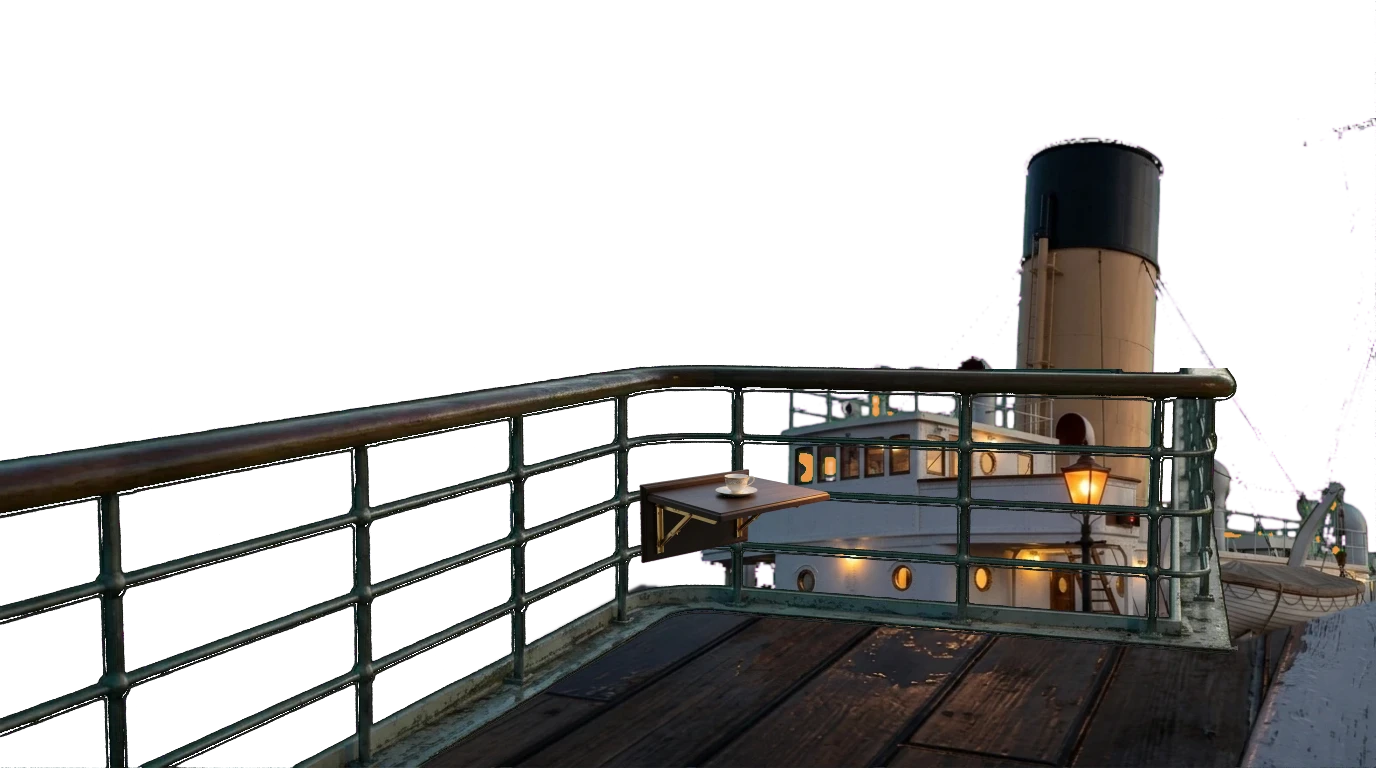
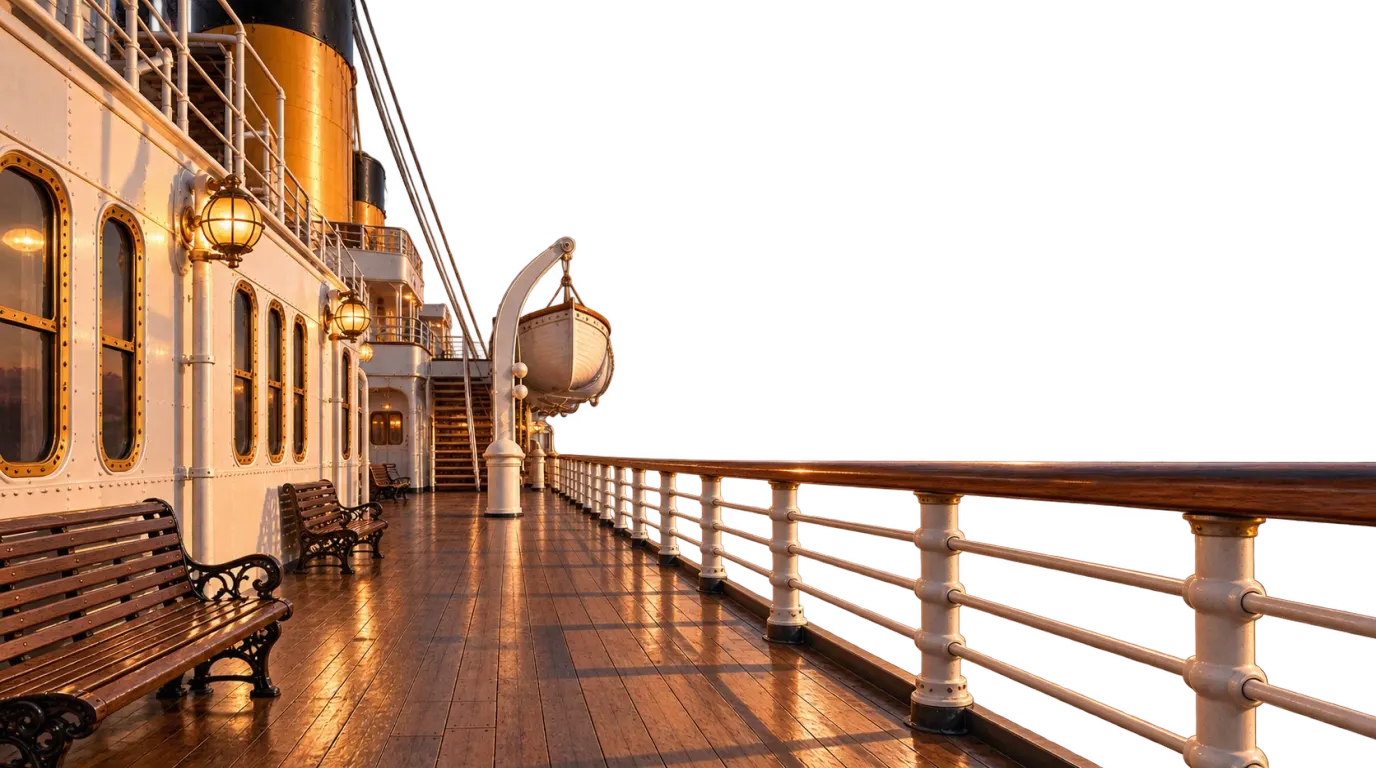
Q5: 노을 갑판 그림으로 교체, 노을에서 밤으로 이어지는 하늘과 바다 연출

diff --git a/frontend/src/components/question/DeckView.tsx b/frontend/src/components/question/DeckView.tsx
@@ -24,23 +24,23 @@ import { playCorkPop, playFireworkBurst, playStarChime, playWhaleCall, playSplas
  */
 
 const IMG = { w: 1376, h: 768 }; // 그림 좌표계 (deck_q5.webp)
-const HY = 301.7; // 수평선 (새 그림의 수평선 y=421 을 1376 폭 기준으로 옮긴 값)
-const WATER_Y = 338; // 고래가 솟는 수면
+const HY = 463.6; // 수평선: 노을 갑판 그림(1672x941)에서 갑판선과 난간이 모이는 점 y≈568 을 1376x768 기준으로 옮긴 값
+const WATER_Y = 503; // 고래가 솟는 수면
 
 interface Spot { x: number; y: number; w: number; h: number; ax: number; ay: number }
 const SPOTS: Record<string, Spot> = {
-  experience: { x: 632, y: 452, w: 212, h: 125, ax: 790, ay: 505 }, // 난간 안쪽 작은 탁자 (샴페인)
-  stability: { x: 120, y: 470, w: 330, h: 298, ax: 250, ay: 600 }, // 데크체어 자리 (그림이 오면 의자 위 별자리 도감)
-  change: { x: 835, y: 462, w: 215, h: 275, ax: 945, ay: 560 }, // 갑판 앞쪽 (망원경)
+  experience: { x: 130, y: 530, w: 150, h: 120, ax: 205, ay: 595 }, // 앞쪽 벤치 왼쪽 (샴페인)
+  stability: { x: 262, y: 486, w: 120, h: 90, ax: 322, ay: 540 }, // 앞쪽 벤치 오른쪽 (별자리 도감)
+  change: { x: 688, y: 452, w: 215, h: 255, ax: 797, ay: 585 }, // 난간 앞 갑판 (망원경)
 };
 /**
  * 선택지 물건은 배경과 따로 그린 그림(투명 배경)이다. 그림이 아직 없으면 보이지 않고 빛과 눌리는 자리만 남는다.
  * foot: 물건이 바닥에 닿는 점(1376x768 기준), h: 높이.
  */
 const OBJECTS: Record<string, { src: string; foot: [number, number]; h: number }> = {
-  experience: { src: '/q5/obj_champagne.webp', foot: [802, 513], h: 96 },
-  stability: { src: '/q5/obj_atlas.webp', foot: [250, 640], h: 66 },
-  change: { src: '/q5/obj_telescope.webp', foot: [945, 724], h: 255 },
+  experience: { src: '/q5/obj_champagne.webp', foot: [205, 612], h: 80 },
+  stability: { src: '/q5/obj_atlas.webp', foot: [322, 556], h: 34 },
+  change: { src: '/q5/obj_telescope.webp', foot: [797, 692], h: 225 },
 };
 const ORDER = ['experience', 'stability', 'change'] as const;
 type Choice = (typeof ORDER)[number];
@@ -57,11 +57,11 @@ const FADE_AT: Record<Choice, number> = { experience: 5.7, stability: 6.1, chang
 
 // 별자리: 북두칠성과 북극성, 카시오페이아 (그림 좌표)
 const BIG_DIPPER = [
-  { x: 520, y: 98 }, { x: 585, y: 120 }, { x: 650, y: 116 }, { x: 712, y: 142 },
-  { x: 722, y: 208 }, { x: 802, y: 222 }, { x: 815, y: 158 },
+  { x: 640, y: 150 }, { x: 705, y: 172 }, { x: 770, y: 168 }, { x: 832, y: 194 },
+  { x: 842, y: 262 }, { x: 922, y: 276 }, { x: 935, y: 212 },
 ];
-const POLARIS = { x: 856, y: 30 };
-const CASSIOPEIA = [{ x: 250, y: 128 }, { x: 305, y: 74 }, { x: 362, y: 108 }, { x: 410, y: 58 }, { x: 470, y: 92 }];
+const POLARIS = { x: 985, y: 84 };
+const CASSIOPEIA = [{ x: 1060, y: 190 }, { x: 1115, y: 136 }, { x: 1172, y: 170 }, { x: 1220, y: 120 }, { x: 1280, y: 154 }];
 // 별 번호(0~6 북두칠성, 7 북극성, 8~12 카시오페이아) 순서대로 이어 그린다
 const STARS = [...BIG_DIPPER, POLARIS, ...CASSIOPEIA];
 const SEGMENTS: [number, number][] = [[0, 1], [1, 2], [2, 3], [3, 4], [4, 5], [5, 6], [6, 3], [5, 6], [6, 7], [8, 9], [9, 10], [10, 11], [11, 12]];
@@ -73,7 +73,7 @@ const FRAG = `#version 300 es
 precision highp float;
 uniform vec2 uRes; uniform float uTime; uniform vec2 uOff; uniform float uScale;
 uniform float uZoom; uniform vec2 uCenter;
-uniform float uCalm; uniform float uStar; uniform float uMilky; uniform float uDawn; uniform float uGlow; uniform vec3 uGlowCol;
+uniform float uNight; uniform float uCalm; uniform float uStar; uniform float uMilky; uniform float uDawn; uniform float uGlow; uniform vec3 uGlowCol;
 uniform vec4 uRip[4];
 uniform sampler2D uSky; uniform float uHasSky;
 out vec4 o;
@@ -90,10 +90,17 @@ vec3 sky(vec2 p){
     // 하늘 사진: 구름과 수평선의 노을이 그대로 깔린다 (위에 별과 은하수가 얹힌다)
     c = texture(uSky, vec2(clamp(p.x / 1376., 0., 1.), clamp(p.y / HY, 0., .995))).rgb;
   } else {
-    vec3 hor = vec3(.25, .29, .38), top = vec3(.27, .38, .52);
-    c = mix(hor, top, pow(h, .7));
-    // 해 진 뒤 수평선에 남은 따뜻한 빛: 배가 있는 오른쪽이 더 붉다
-    c = mix(c, vec3(.95, .58, .44), exp(-h * 11.) * (.2 + .6 * smoothstep(250., 900., p.x)));
+    // 노을 하늘: 위는 짙은 푸른색, 수평선으로 갈수록 따뜻한 주황. 해는 오른쪽 수평선 위에 낮게 걸려 있다.
+    vec3 gTop = vec3(.17, .28, .50), gMid = vec3(.52, .54, .64), gHor = vec3(.98, .66, .36);
+    vec3 gold = mix(gHor, gMid, smoothstep(0., .24, h));
+    gold = mix(gold, gTop, smoothstep(.22, 1., h));
+    float sun = exp(-length((p - vec2(1260., HY - 6.)) * vec2(1., 2.4)) / 230.);
+    gold += vec3(1., .72, .38) * sun * .55;
+    // 밤하늘 (선택하면 노을에서 밤으로 어두워진다)
+    vec3 nTop = vec3(.04, .08, .19), nHor = vec3(.19, .21, .33);
+    vec3 night = mix(nHor, nTop, pow(h, .7));
+    night = mix(night, vec3(.55, .36, .30), exp(-h * 12.) * .30);
+    c = mix(gold, night, uNight);
   }
   c = mix(c, vec3(1., .55, .30), uDawn * exp(-h * 5.5) * .85);
   c *= mix(1., .55, uMilky * .5);
@@ -107,7 +114,7 @@ vec3 sky(vec2 p){
   float d = length(e2);
   float tw = .5 + .5 * sin(uTime * (1.3 + r * 4.) + r * 40.);
   float tw2 = .5 + .5 * sin(uTime * (.7 + r * 2.) + r * 17.);
-  float bright = (0.85 + uStar * 1.1) * (.45 + .55 * h);
+  float bright = (0.85 + uStar * 1.1) * (.45 + .55 * h) * uNight;
   float st = on * smoothstep(.10, .0, d) * (.35 + .65 * tw) * bright;
   float big = step(.975, r);
   float halo = smoothstep(.26, .0, d) * .30;
@@ -119,7 +126,7 @@ vec3 sky(vec2 p){
   float band = exp(-dd * dd / (2. * 80. * 80.));
   float cloud = .35 + fbm(p * .011 + 2.) * 1.3;
   float dust = step(.86, hash(floor(p * .6))) * .5 * band;
-  c += (vec3(.48, .55, .80) * band * cloud * .55 + vec3(.9) * dust * .35) * uMilky;
+  c += (vec3(.48, .55, .80) * band * cloud * .55 + vec3(.9) * dust * .35) * uMilky * uNight;
   return c;
 }
 
@@ -143,12 +150,12 @@ vec3 sea(vec2 p){
     }
   }
   h += rh;
-  vec3 deepFar = vec3(.15, .20, .28), deepNear = vec3(.06, .11, .18);
+  vec3 deepFar = vec3(.09, .22, .25), deepNear = vec3(.03, .11, .15);
   vec3 base = mix(deepFar, deepNear, smoothstep(0., 170., d));
   vec2 pr = vec2(p.x + h * 38., HY - d * .85 + h * 20.);
   vec3 refl = sky(pr);
   float fres = pow(1. - clamp(d / 280., 0., 1.), 1.4) * .75 + .16;
-  vec3 col = base + refl * fres * (.19 + uCalm * .16);
+  vec3 col = base + refl * fres * (.36 + uCalm * .18);
   float glint = smoothstep(.55, .95, h + rh * 1.5) * (.12 + uStar * .1);
   col += vec3(.9, .8, .6) * glint;
   // 눈에 띄게 일렁이는 큰 너울과 물결선: 밝고 어두운 띠가 천천히 밀려온다
@@ -158,10 +165,12 @@ vec3 sea(vec2 p){
   col += mix(vec3(.45, .6, .9), vec3(.95, .72, .55), .2 + .6 * smoothstep(250., 900., p.x)) * lines * .035 * amp * exp(-d * .006);
   // 일렁이는 물결 위로 반짝이는 잔빛: 해 진 수평선 쪽(오른쪽)이 더 붉고, 가까울수록 어둡게 사그라든다
   float gl2 = smoothstep(.74, .97, noise(q * 14. + vec2(uTime * .8, -uTime * .5)) + h * .28);
-  vec3 gcol = mix(vec3(.62, .76, 1.), vec3(1., .82, .64), .25 + .75 * smoothstep(250., 900., p.x));
+  float sunW = exp(-abs(p.x - 1260.) / 430.);
+  vec3 gcol = mix(vec3(.62, .76, 1.), vec3(1., .80, .50), mix(.2, 1., sunW * (1. - uNight)));
   col += gcol * gl2 * (.025 + .10 * exp(-d * .011)) * (.6 + .4 * (1. - uCalm));
   col += vec3(.7, .85, 1.) * rh * .22 * exp(-d * .004);
   col += uGlowCol * uGlow * exp(-d * .005) * (.35 + .65 * noise(q * 6. + uTime * .5));
+  col *= mix(1., .5, uNight);
   col = mix(col, col * vec3(1.15, .92, .78) + vec3(.07, .03, 0.), uDawn * .55);
   return col;
 }
@@ -335,7 +344,7 @@ export default function DeckView({ question, onAnswer, onBack }: DeckViewProps) 
         const a = gl.getAttribLocation(prog, 'a');
         gl.enableVertexAttribArray(a);
         gl.vertexAttribPointer(a, 2, gl.FLOAT, false, 0, 0);
-        for (const n of ['uRes', 'uTime', 'uOff', 'uScale', 'uZoom', 'uCenter', 'uCalm', 'uStar', 'uMilky', 'uDawn', 'uGlow', 'uGlowCol', 'uRip', 'uSky', 'uHasSky']) loc[n] = gl.getUniformLocation(prog, n);
+        for (const n of ['uRes', 'uTime', 'uOff', 'uScale', 'uZoom', 'uCenter', 'uNight', 'uCalm', 'uStar', 'uMilky', 'uDawn', 'uGlow', 'uGlowCol', 'uRip', 'uSky', 'uHasSky']) loc[n] = gl.getUniformLocation(prog, n);
       } else setNoGL(true);
     } catch {
       gl = null;
@@ -364,7 +373,9 @@ export default function DeckView({ question, onAnswer, onBack }: DeckViewProps) 
           hasSky = 0;
         }
       };
-      img.src = '/bg/sky_q5.webp';
+      // 노을 하늘은 셰이더가 그린다. 하늘 사진을 쓰려면 경로를 넣는다 (예: '/bg/sky_golden.webp').
+      const SKY_SRC: string | null = null;
+      if (SKY_SRC) img.src = SKY_SRC;
     }
 
     const fit = () => {
@@ -386,7 +397,7 @@ export default function DeckView({ question, onAnswer, onBack }: DeckViewProps) 
     glCanvas.addEventListener('webglcontextlost', onLost);
 
     // 상태
-    const cur = { calm: 0.12, star: 0, milky: 0, dawn: 0, glow: 0, gr: 1, gg: 0.8, gb: 0.45 };
+    const cur = { night: 0, calm: 0.12, star: 0, milky: 0, dawn: 0, glow: 0, gr: 1, gg: 0.8, gb: 0.45 };
     const view: View = { zoom: 1, cx: 688, cy: 230 };
     const ripples: { x: number; y: number; t0: number; amp: number }[] = [];
     const fw: Fx[] = [];
@@ -449,9 +460,9 @@ export default function DeckView({ question, onAnswer, onBack }: DeckViewProps) 
       if (v === 'experience') {
         at(0.05, playCorkPop);
         const shots: [number, number, number, number, 'radial' | 'ring' | 'willow' | 'big'][] = [
-          [1.0, 560, 120, 0, 'radial'], [1.7, 850, 90, 1, 'radial'], [2.3, 700, 150, 2, 'ring'], [2.9, 420, 110, 3, 'radial'],
-          [3.2, 1000, 130, 4, 'radial'], [3.6, 650, 70, 0, 'willow'], [3.95, 800, 110, 1, 'radial'], [4.15, 520, 140, 2, 'ring'],
-          [4.35, 960, 80, 3, 'radial'], [4.6, 690, 100, 0, 'big'],
+          [1.0, 760, 190, 0, 'radial'], [1.7, 1050, 150, 1, 'radial'], [2.3, 890, 250, 2, 'ring'], [2.9, 640, 210, 3, 'radial'],
+          [3.2, 1210, 200, 4, 'radial'], [3.6, 850, 120, 0, 'willow'], [3.95, 1010, 220, 1, 'radial'], [4.15, 730, 270, 2, 'ring'],
+          [4.35, 1150, 150, 3, 'radial'], [4.6, 920, 180, 0, 'big'],
         ];
         for (const [t, x, y, c, k] of shots) at(t - 0.8, () => launch(x, y, c, k));
       } else if (v === 'stability') {
@@ -521,13 +532,14 @@ export default function DeckView({ question, onAnswer, onBack }: DeckViewProps) 
 
       // 호버 미리보기: 세계가 그 물건 쪽으로 살짝 기운다
       const h = hoverRef.current;
-      const tgt = { calm: 0.12, star: 0, milky: 0, dawn: 0, glow: 0 };
+      const tgt = { night: 0, calm: 0.12, star: 0, milky: 0, dawn: 0, glow: 0 };
       if (!phase) {
-        if (h === 'experience') { tgt.glow = 0.07; tgt.dawn = 0.12; }
-        if (h === 'stability') { tgt.star = 0.55; tgt.calm = 0.55; tgt.milky = 0.25; }
-        if (h === 'change') { tgt.dawn = 0.3; tgt.calm = 0.3; }
+        if (h === 'experience') { tgt.glow = 0.07; tgt.night = 0.18; }
+        if (h === 'stability') { tgt.night = 0.42; tgt.star = 0.55; tgt.calm = 0.55; tgt.milky = 0.25; }
+        if (h === 'change') { tgt.dawn = 0.18; tgt.calm = 0.3; }
         const k = Math.min(1, dt * 3);
         cur.calm += (tgt.calm - cur.calm) * k;
+        cur.night += (tgt.night - cur.night) * k;
         cur.star += (tgt.star - cur.star) * k;
         cur.milky += (tgt.milky - cur.milky) * k;
         cur.dawn += (tgt.dawn - cur.dawn) * k;
@@ -543,26 +555,29 @@ export default function DeckView({ question, onAnswer, onBack }: DeckViewProps) 
       if (phase && !reduce) {
         for (const ev of events) if (!ev.done && e >= ev.at) { ev.done = true; ev.fn(); }
         if (phase === 'experience') {
-          view.cx = 688; view.cy = 230; view.zoom = 1 + 0.06 * smooth(0, 6, e);
+          view.cx = 900; view.cy = 300; view.zoom = 1 + 0.06 * smooth(0, 6, e);
           cur.glow = Math.min(0.9, energy);
           cur.gr = 1; cur.gg = 0.78; cur.gb = 0.42;
+          cur.night = 0.82 * smooth(0, 2.4, e);
           cur.star = 0.2 * smooth(0, 3, e);
-          cur.dawn = 0.18 * smooth(0, 2, e);
+          cur.dawn = 0;
         } else if (phase === 'stability') {
           // 고개를 드는 연출: 갑판은 아래로 완전히 밀려 나가고, 하늘이 올라온다 (사진이 잘려 보이지 않도록 흐리게 지우지 않는다)
           const z = smooth(0.2, 3.4, e);
-          view.cx = 688; view.cy = 130; view.zoom = lerp(1, 1.45, z);
+          view.cx = 860; view.cy = 200; view.zoom = lerp(1, 1.45, z);
           fgA = 1;
           fgY = smooth(0.15, 2.7, e) * (vh + 140);
+          cur.night = smooth(0.1, 2.6, e);
           cur.star = smooth(0.2, 2.6, e);
           cur.milky = 0.9 * smooth(0.6, 3.6, e);
           cur.calm = lerp(0.55, 1, smooth(0, 2, e));
         } else {
           const z = smooth(0.2, 2.1, e);
-          view.cx = 900; view.cy = 310; view.zoom = lerp(1, 2.4, z);
+          view.cx = 900; view.cy = 470; view.zoom = lerp(1, 2.4, z);
           fgA = 1 - smooth(0.2, 1.6, e);
           cur.calm = 0.3;
-          cur.dawn = lerp(0.3, 0.95, smooth(3.6, 6.2, e));
+          cur.night = 0;
+          cur.dawn = lerp(0.18, 0.7, smooth(3.6, 6.2, e));
           // 고래: 2.2초에 솟아 4.6초에 들어가고, 이어서 꼬리가 올라왔다 잠긴다
           const u = (e - 2.2) / 2.4;
           if (u > 0 && u < 1) {
@@ -618,6 +633,7 @@ export default function DeckView({ question, onAnswer, onBack }: DeckViewProps) 
         gl.uniform1f(loc.uMilky, cur.milky);
         gl.uniform1f(loc.uDawn, cur.dawn);
         gl.uniform1f(loc.uGlow, cur.glow);
+        gl.uniform1f(loc.uNight, cur.night);
         gl.uniform3f(loc.uGlowCol, cur.gr, cur.gg, cur.gb);
         gl.uniform4fv(loc.uRip, rip);
         gl.activeTexture(gl.TEXTURE0);
@@ -708,6 +724,8 @@ export default function DeckView({ question, onAnswer, onBack }: DeckViewProps) 
       if (fg) {
         fg.style.transform = `translate(${layout.ox + sh}px, ${layout.oy + sh + fgY}px) scale(${s})`;
         fg.style.opacity = String(fgA);
+        // 밤이 되면 노을빛을 받던 갑판도 함께 어두워진다
+        fg.style.filter = cur.night > 0.01 ? `brightness(${(1 - 0.55 * cur.night).toFixed(3)}) saturate(${(1 - 0.4 * cur.night).toFixed(3)})` : 'none';
       }
     };
     raf = requestAnimationFrame(frame);
@@ -777,7 +795,7 @@ export default function DeckView({ question, onAnswer, onBack }: DeckViewProps) 
               draggable={false}
               onError={(e) => { e.currentTarget.style.display = 'none'; }}
               className="pointer-events-none absolute max-w-none"
-              style={{ left: o.foot[0], top: o.foot[1], height: o.h, transform: `translate(-50%, -100%) scale(${on ? 1.04 : 1})`, transformOrigin: '50% 100%', transition: 'transform 0.4s, filter 0.4s', filter: on ? 'brightness(1.28) drop-shadow(0 0 14px rgba(255,214,140,0.55))' : 'brightness(1)' }}
+              style={{ left: o.foot[0], top: o.foot[1], height: o.h, transform: `translate(-50%, -100%) scale(${on ? 1.04 : 1})`, transformOrigin: '50% 100%', transition: 'transform 0.4s, filter 0.4s', filter: on ? 'sepia(0.3) saturate(1.2) brightness(1.28) drop-shadow(0 0 14px rgba(255,214,140,0.55))' : 'sepia(0.3) saturate(1.2) brightness(1.02)' }}
             />
           );
         })}

diff --git a/tools/build_q5_deck.py b/tools/build_q5_deck.py
@@ -1,0 +1,67 @@
+#!/usr/bin/env python3
+"""Q5 갑판 앞쪽 레이어 만들기 (노을 갑판 한 장 방식).
+
+입력: tools/work/src/deck47.webp  (하늘과 바다 자리가 투명한 갑판 그림: 난간, 벤치, 구명정, 갑판실)
+출력: frontend/public/bg/deck_q5_fg.webp  (1376x768, 투명 유지)
+      frontend/public/bg/deck_q5.webp     (WebGL 이 없을 때 쓰는 한 장짜리 그림: 노을 하늘 + 바다 위에 얹은 것)
+
+좌표계는 게임의 1376x768 기준이다. 수평선(HY)은 갑판선과 난간이 모이는 점이다: 원본(1672x941)에서 y≈568 → 1376x768 에서 y≈463.6.
+실행: python tools/build_q5_deck.py
+"""
+import os
+import sys
+
+import cv2
+import numpy as np
+
+ROOT = os.path.dirname(os.path.dirname(os.path.abspath(__file__)))
+SRC = os.path.join(ROOT, 'tools', 'work', 'src', 'deck47.webp')
+PUB = os.path.join(ROOT, 'frontend', 'public', 'bg')
+W, H = 1376, 768
+HY = 463.6
+
+
+def encode(img, budget_kb, q0=90, floor=55):
+    q = q0
+    while True:
+        ok, buf = cv2.imencode('.webp', img, [cv2.IMWRITE_WEBP_QUALITY, q])
+        if len(buf) <= budget_kb * 1024 or q <= floor:
+            return buf, q
+        q -= 3
+
+
+def main():
+    im = cv2.imread(SRC, cv2.IMREAD_UNCHANGED)
+    if im is None or im.shape[2] != 4:
+        sys.exit('갑판 그림(알파 포함)을 찾을 수 없습니다: ' + SRC)
+    fg = cv2.resize(im, (W, H), interpolation=cv2.INTER_AREA)
+    fg[fg[..., 3] <= 3, :3] = 0
+    buf, q = encode(fg, 195)
+    open(os.path.join(PUB, 'deck_q5_fg.webp'), 'wb').write(buf.tobytes())
+    print('deck_q5_fg.webp', len(buf) // 1024, 'KB (품질 %d)' % q)
+
+    # WebGL 이 없을 때의 한 장짜리 그림: 노을 하늘과 어두운 바다 위에 얹는다 (BGR)
+    bg = np.zeros((H, W, 3), np.float32)
+    top = np.array([128, 80, 42], np.float32)
+    mid = np.array([158, 132, 126], np.float32)
+    hor = np.array([92, 168, 250], np.float32)
+    hy = int(HY)
+    for y in range(hy):
+        t = y / hy
+        bg[y] = np.where(t < 0.8, mid * (1 - t / 0.8) + top * (t / 0.8), mid)  # 위에서 아래로
+        g = (1 - t) ** 2.2
+        bg[y] = bg[y] * (1 - g) + hor * g
+    sea_a = np.array([58, 66, 36], np.float32)
+    sea_b = np.array([36, 40, 20], np.float32)
+    for y in range(hy, H):
+        t = (y - hy) / (H - hy)
+        bg[y] = sea_a * (1 - t) + sea_b * t
+    a = fg[..., 3:4] / 255.0
+    full = (fg[..., :3] * a + bg * (1 - a)).astype(np.uint8)
+    buf2, q2 = encode(full, 195, 88)
+    open(os.path.join(PUB, 'deck_q5.webp'), 'wb').write(buf2.tobytes())
+    print('deck_q5.webp', len(buf2) // 1024, 'KB (품질 %d)' % q2)
+
+
+if __name__ == '__main__':
+    main()
